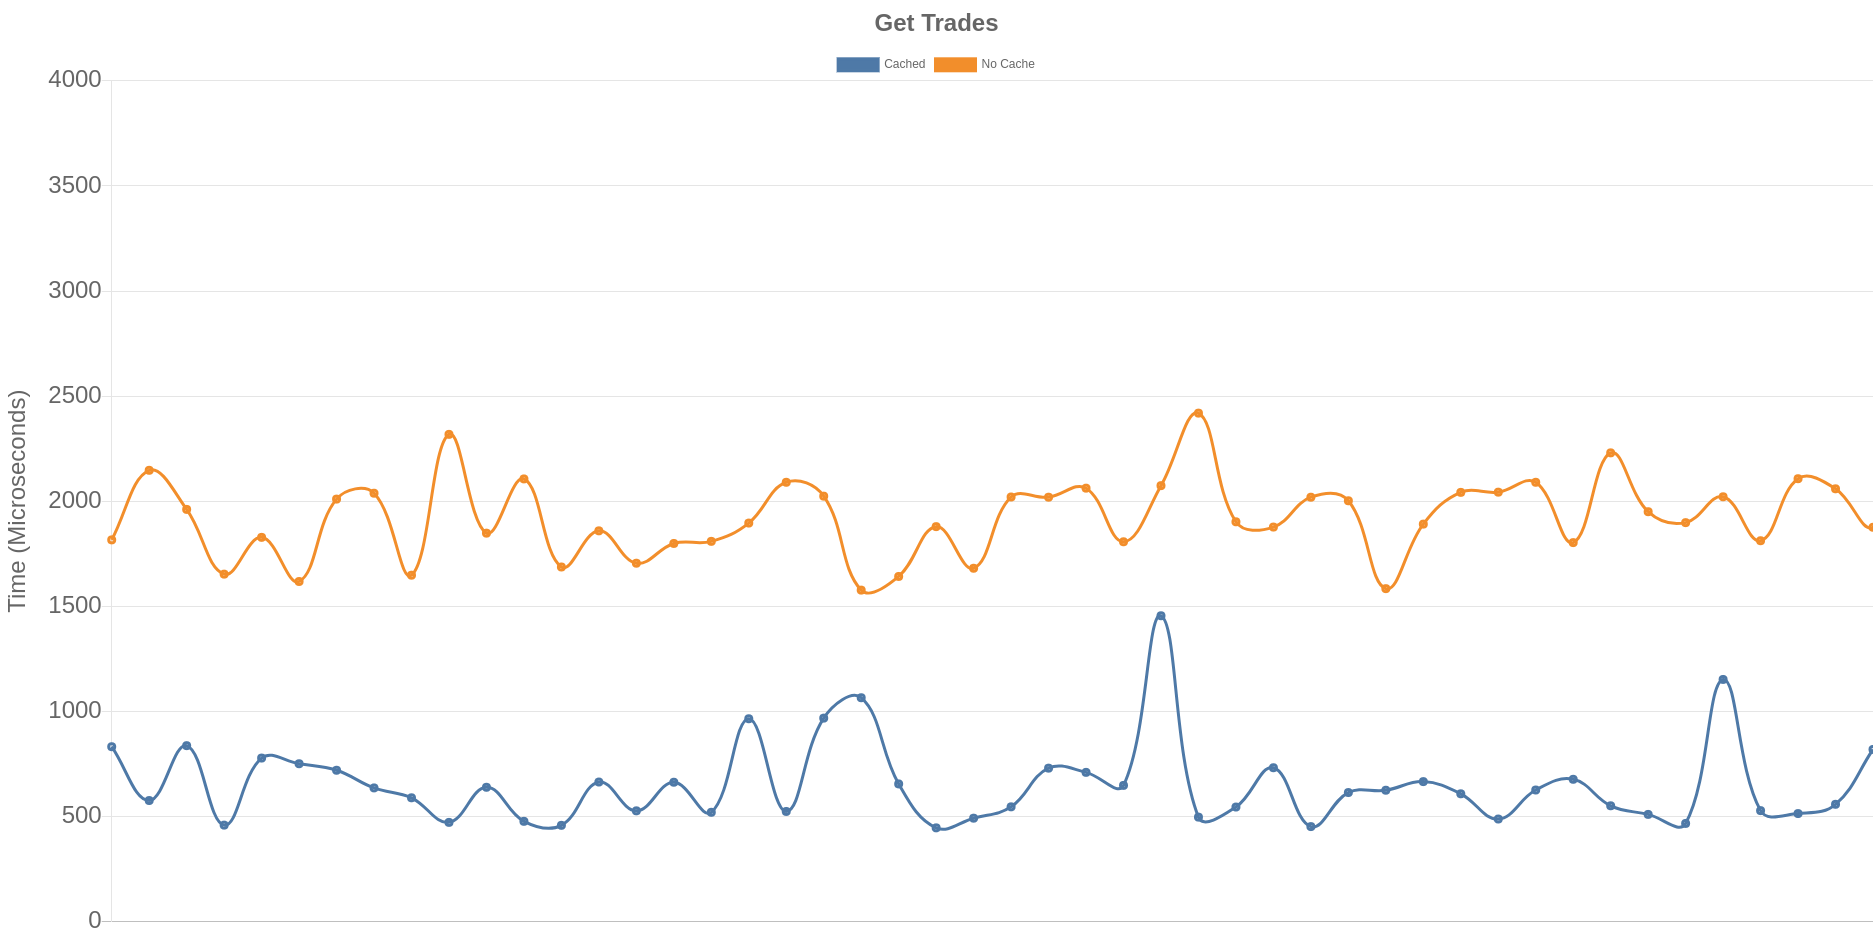
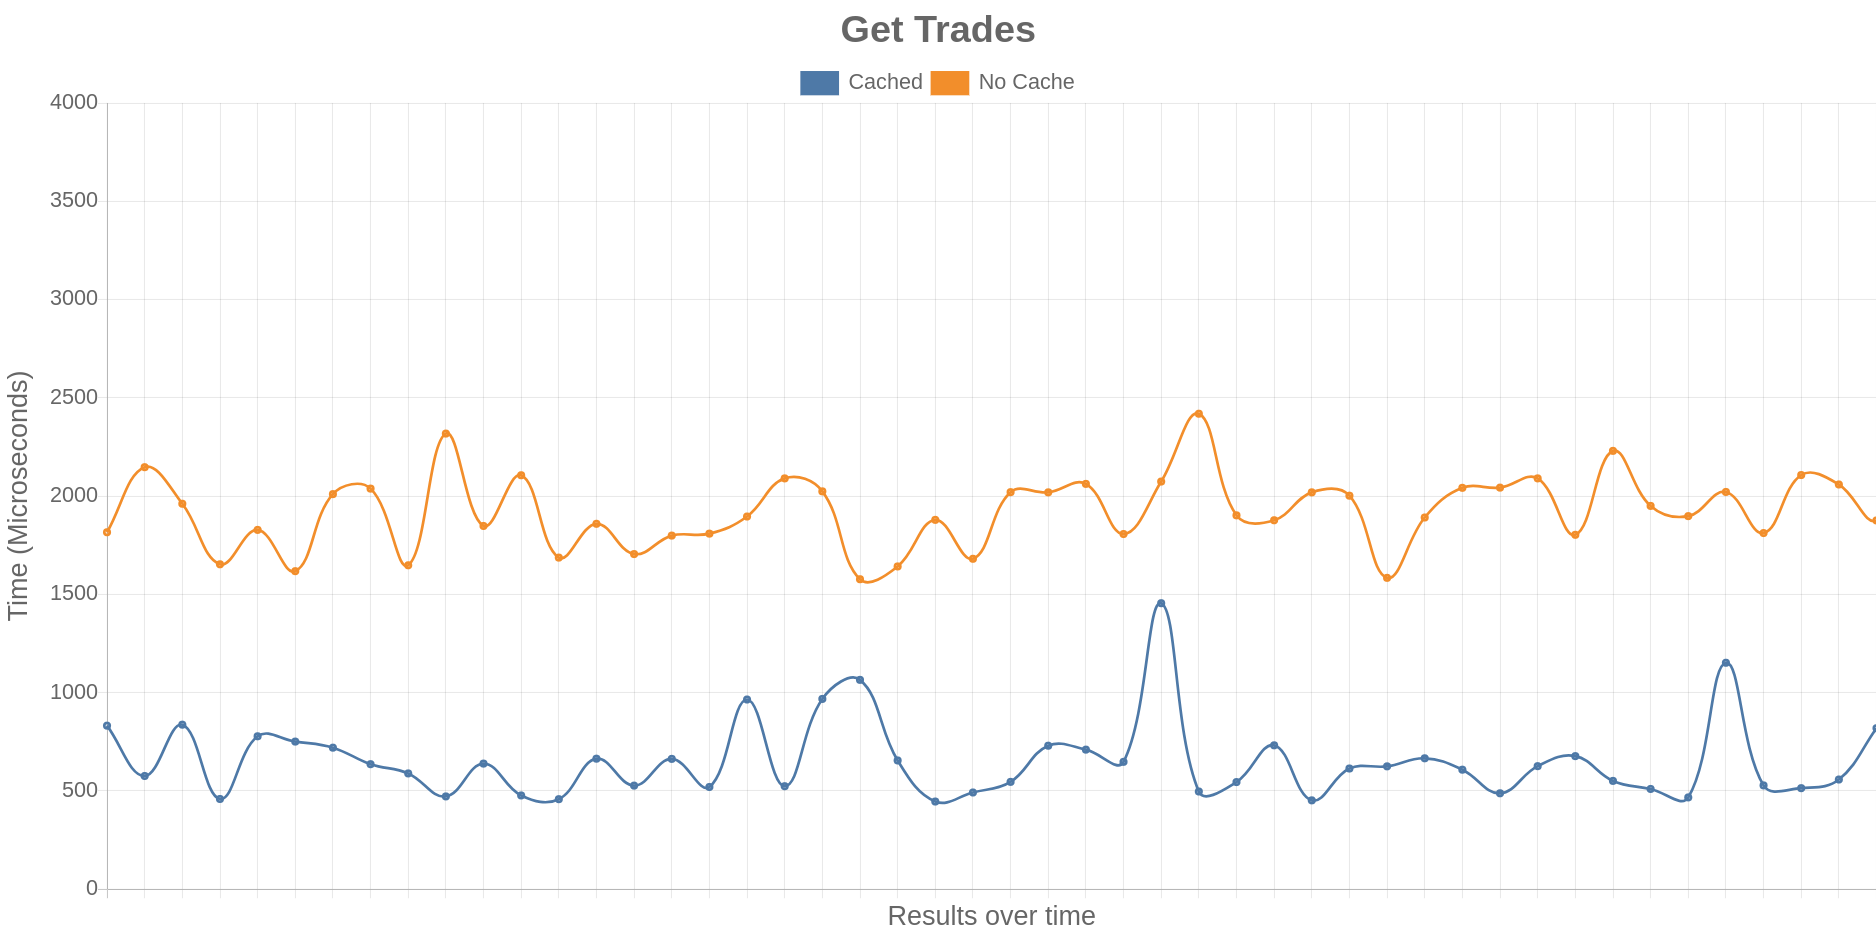
REPORT: More chart adjustments

diff --git a/report/InterinReport/report.tex b/report/InterinReport/report.tex
@@ -882,22 +882,24 @@ The specification of the virtual machine where I conducted these tests are as fo
 
 \pagebreak
 \subsubsection{/login route}
-The /login method is a POST request, where the user sends over their email and password, and the server returns an access and refresh token. This involves hashing the user's password and doing a read from the PostgreSQL database from the authentication service, in order to check the user's details are correct. It is a single service request (meaning it doesn't ask anything from any other services), which will make it fairly fast. The results are plotted below.
+The /login method is a POST request, where the user sends over their email and password, and the server returns an access and refresh token. This involves hashing the user's password and doing a read from the PostgreSQL database from the authentication service, in order to check the user's details are correct. It is a single service request (meaning it doesn't ask anything from any other services), which will make it fairly fast. The results are plotted in this figure \ref{login-test}.
 
 \begin{figure}[h!]
 \includegraphics[width=\textwidth]{../results/login.png}
   \caption{/login route results}
+  \label{login-test}
 \end{figure}
 
 This was very good to see, that my simplest service has a very consistent curve, sitting at around 700 microseconds, which is very fast. Most importantly it stayed fairly consistent throughout the testing with only 2 requests reaching over the 1000 microseconds barrier, I attribute these to system the system being under some load from other background processes.
 
 \pagebreak
 \subsubsection{/asset route}
-The /asset route is a GET request that goes to the Hub service first. The hub requests the brain service for all its persistent storage needs, except for the ones that are cached. I have implemented caching using a Redis database and a strategy of storing the endpoint with some metadata as a key for the Redis database, if the key is present then we can serve cache. This is described in further detail above. The results for this request, are plotted below.
+The /asset route is a GET request that goes to the Hub service first. The hub requests the brain service for all its persistent storage needs, except for the ones that are cached. I have implemented caching using a Redis database and a strategy of storing the endpoint with some metadata as a key for the Redis database, if the key is present then we can serve cache. This is described in further detail above. The results for this request, are plotted in this figure \ref{asset-test}.
 
 \begin{figure}[h!]
 \includegraphics[width=\textwidth]{../results/asset.png}
   \caption{/asset route results}
+  \label{asset-test}
 \end{figure}
 
 Starting with the non-cached results in orange, we can see that because the service has to make a request to the brain service and the brain then needs to perform a read from permanent storage from the PostgreSQL database, we end up with a much slower (but still very fast) turn around time. Averaging at around 2000 micro seconds, or just about 2 milliseconds. Noticeably there is a spike towards the end of the dataset, however this is an anomaly it seems and needs no further investigation, I attribute it to system noise. \\
@@ -906,11 +908,12 @@ The cached results are the most interesting ones, as you can see the request tim
 
 \pagebreak
 \subsubsection{/trade route}
-This endpoint returns all the active trades in the system, a value that can be cached if the system is not under load and being used to actively trade, this would be especially useful when potential markets are closed or during periods of low activity. It is unlikely that I could achieve any sort of caching when the system is being used to constantly trade because the trades cache has to be constantly invalidated. The following test does however test caching requests as well, but take into account this is only realistic to achieve during these periods of low activity.
+This endpoint returns all the active trades in the system, a value that can be cached if the system is not under load and being used to actively trade, this would be especially useful when potential markets are closed or during periods of low activity. It is unlikely that I could achieve any sort of caching when the system is being used to constantly trade because the trades cache has to be constantly invalidated. The following test \ref{gettrade-test} does however test caching requests as well, but take into account this is only realistic to achieve during these periods of low activity.
 
 \begin{figure}[h!]
 \includegraphics[width=\textwidth]{../results/get-trades.png}
-  \caption{/asset route results}
+  \caption{/trade/ route results}
+  \label{gettrade-test}
 \end{figure}
 
 We see around the same improvement from cached results vs non-cached results when compared to the /asset endpoint results, an improvement of around 4 times. The average result for a cached request is around 600 microseconds, a number slightly higher than the assets because at any given point there are a lot more trades than there are assets, therefore the read from PostgreSQL naturally takes more time. \\
@@ -924,17 +927,19 @@ This is a POST request to create a trade for a given asset, for a price. This ca
 \begin{figure}[h!]
 \includegraphics[width=\textwidth]{../results/create-trade.png}
   \caption{/trade/create route results}
+  \label{create-trade}
 \end{figure}
 
 These results are much more chaotic, and naturally so because of how much more complex this endpoint is compared to other ones. We see the average at around 8000 microseconds (8 milliseconds), with quite a few data points that jump in terms of response time. I believe this is because of the lack of available threads on the virtual machine the test was conducted on, with around 4 threads some requests have to wait for others to finish before starting to handle the next one, hence explaining the jumps. This could be solved by having a better virtual machine (after all the one I am using isn't anything special). And then these results would look much more plausible. \\
 
 \pagebreak
 \subsubsection{/trade/complete route}
-This endpoint is also a POST request, and it is very similar to the create trade endpoint, slightly less complex but still has to do a fair amount of validation in order to make sure that the transaction is a valid one (making sure the user has enough money, or enough of that asset, etc...). Again, no real caching is possible on this one and therefore I expect some more chaotic results.
+This endpoint is also a POST request, and it is very similar to the create trade endpoint, slightly less complex but still has to do a fair amount of validation in order to make sure that the transaction is a valid one (making sure the user has enough money, or enough of that asset, etc...). Again, no real caching is possible on this one and therefore I expect some more chaotic results. The results are plotted in the following figure \ref{create-trade-test}.
 
 \begin{figure}[h!]
 \includegraphics[width=\textwidth]{../results/complete-trade.png}
   \caption{/trade/create route results}
+  \label{create-trade-test}
 \end{figure}
 
 These results are slightly less chaotic, due to the number of reads needed before being able to complete the transaction being less. Also the body is the request is significantly smaller than when you create a trade. We can see that the average is around 7000 microseconds (7 milliseconds), with only a few outliers where the system seems to have ran out of available threads. 
@@ -942,7 +947,9 @@ These results are slightly less chaotic, due to the number of reads needed befor
 \subsection{End-to-End Performance}
 I have mentioned before in the report that this type of testing is not very useful for my project because I do not have the resources to fully exhaust the system with my residential internet, and limited computational power. Nevertheless, I will still perform some tests to (hopefully) show that in my limited internet I cannot overpower the system. \\
 
-To do this I will use a POST endpoints (/trade/create), which is the most CPU intensive end point in my system because it cannot be cached, and it needs to perform several validation checks before the user is allowed to actually create a trade. This figure \ref{e2e_route} shows the results and as we can see they are generally stable, with a few spikes in results, which I attribute to the machine temporarility  running out of threads to process the following request, but very quickly recovering. It is also worth noting that the virtual machine is running a whole operating system and therefore other processes could every once in a way require CPU time.
+To do this I will use a POST endpoints (/trade/create), which is the most CPU intensive end point in my system because it cannot be cached, and it needs to perform several validation checks before the user is allowed to actually create a trade. This figure \ref{e2e_route} shows the results and as we can see they are generally stable, with a few spikes in results, which I attribute to the machine temporarility  running out of threads to process the following request, but very quickly recovering. It is also worth noting that the virtual machine is running a whole operating system and therefore other processes could every once in a way require CPU time. \\
+
+Just an extra note that this test is measured in milliseconds as opposed to the whitebox tests which are measured in microseconds, this means these tests take a significant amount of time, and seeing that in here \ref{create-trade} we have an average of 8 milliseconds, it seems that around 95\% of the end to end request comes from: Creating the request, sending the request, receiving it. This is why it is not feasible to use end-to-end testing to measure the performance is the system, because it does not fairly evaluate it.
 
 \begin{figure}[h!]
 \includegraphics[width=\textwidth]{../results/e2e-createtrade.png}
